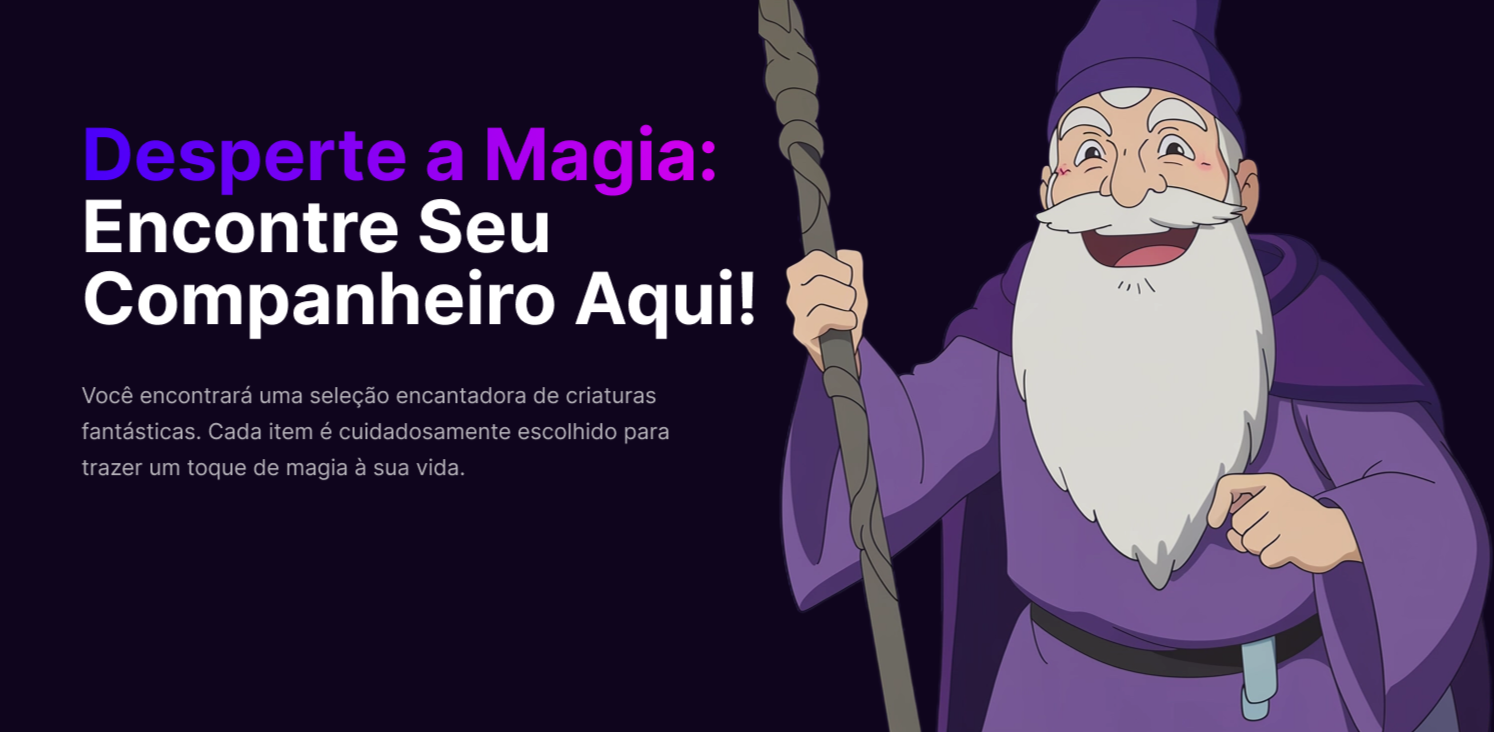
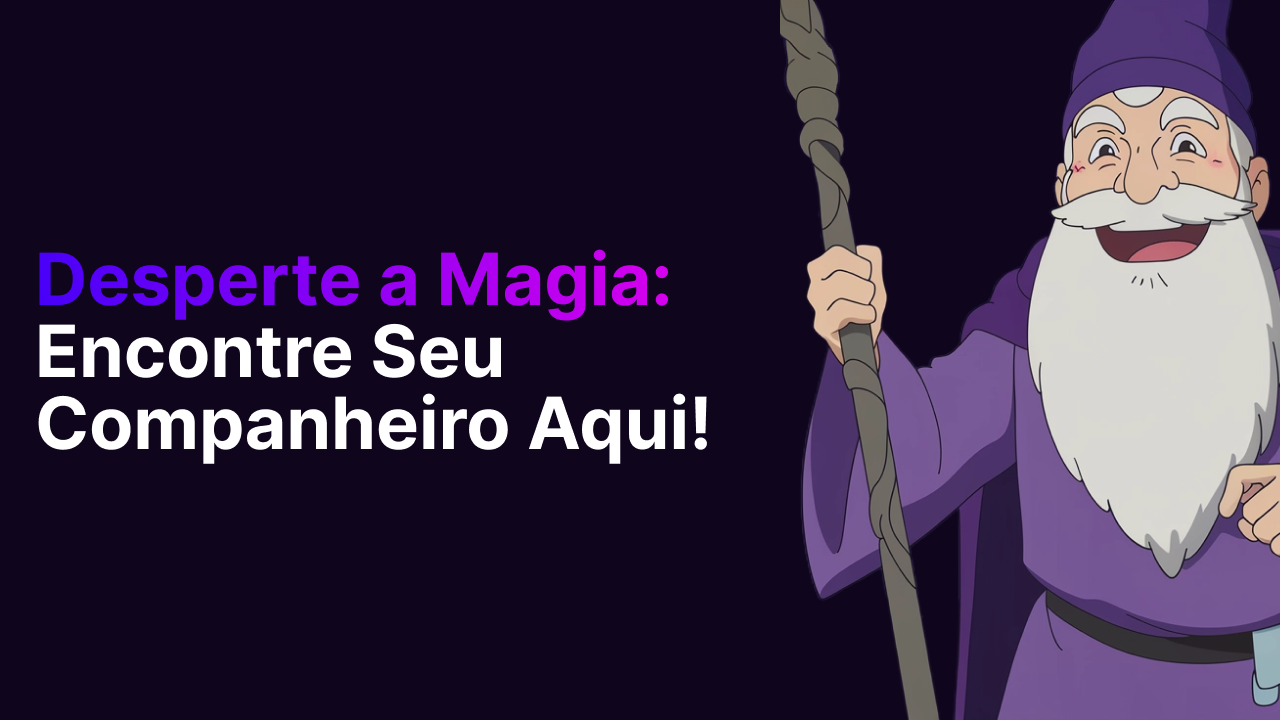
fix: update technology proficiency percentages in TabTechnologies component and replace misticazoo image

diff --git a/portfolio-frontend/src/components/ui/TabTechnologies.tsx b/portfolio-frontend/src/components/ui/TabTechnologies.tsx
@@ -47,13 +47,13 @@ const technologies = [
   },
   {
     name: "HTML",
-    percent: 100,
+    percent: 90,
     image: "./assets/images/technologies/html.svg",
     category: "frontend",
   },
   {
     name: "Express",
-    percent: 40,
+    percent: 30,
     image: "/assets/images/technologies/express.png",
     category: "backend",
   },
@@ -71,7 +71,7 @@ const technologies = [
   },
   {
     name: "Spring Boot",
-    percent: 20,
+    percent: 10,
     image: "/assets/images/technologies/spring-boot.svg",
     category: "backend",
   },
@@ -83,7 +83,7 @@ const technologies = [
   },
   {
     name: "Docker",
-    percent: 20,
+    percent: 30,
     image: "/assets/images/technologies/docker.svg",
     category: "others",
   },
@@ -95,7 +95,7 @@ const technologies = [
   },
   {
     name: "Figma",
-    percent: 60,
+    percent: 80,
     image: "/assets/images/technologies/figma.svg",
     category: "others",
   },
